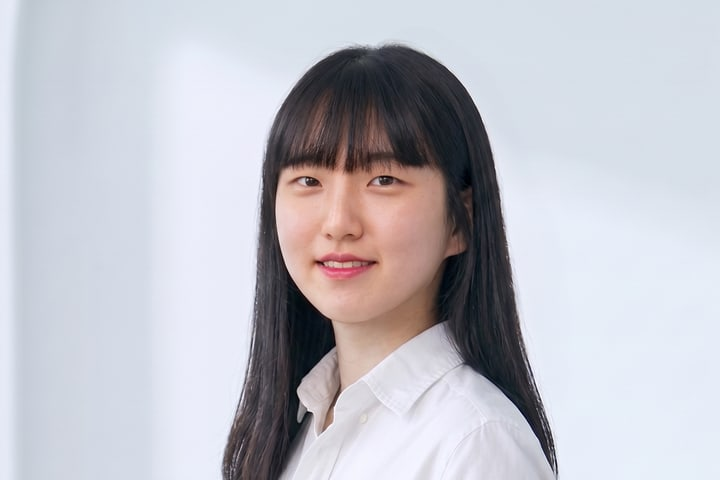
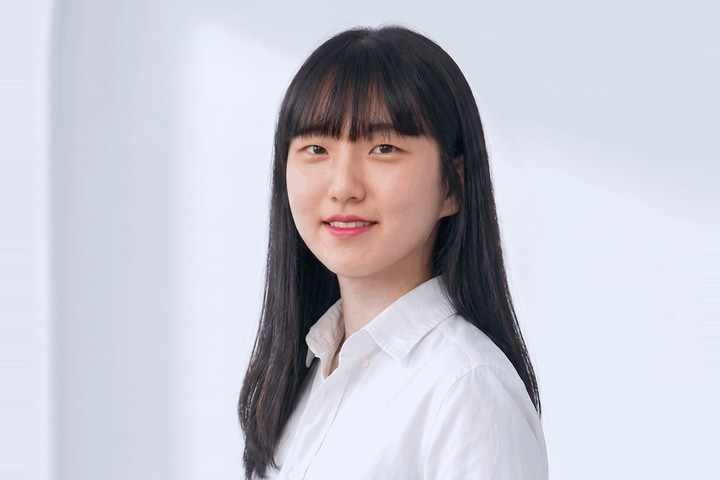
Re-import: 하나은행 sends a different speaker
오주영 is replaced by 하현승, 하나은행 디지털금융부 차장 (라이브커머스 총괄),
with a new portrait for the card and the timetable; 오주영's two photos
are no longer referenced and are dropped.

The rest of the lineup gains fuller titles and affiliations:

- 김모을 → MUSINSA 커머스마케팅 본부장
- 이주희 → 풀리오 온라인세일즈 파트장, with another new portrait
- 오니시 기요타카 → istyle (was @cosme) as the company name
- 카테고리: 메타 → 소셜 미디어, 패션 → 패션/플랫폼

The R2W session is retitled 매주 화/목요일 밤 8시, 4년째 같은 자리, and EN
and JA follow every one of these, subtitle keys included.

Claude-Session: https://claude.ai/code/session_01SChCWEoLB8VTT8diAXE1zq

Changed region(s): [[0.3056, 0.0312, 0.7944, 1.0], [0.0, 0.0, 0.0917, 1.0]]

diff --git a/summit-2026/assets/js/main.js b/summit-2026/assets/js/main.js
@@ -350,15 +350,15 @@ en: {
 "마지막 순서(15:00~15:20)에 현장에서 진행합니다. 응모하시려면 <a href=\"https://kr.linkedin.com/company/shoplive\" target=\"_blank\" rel=\"noopener\">Shoplive 링크드인</a> 팔로우가 필요하며, 당첨자는 현장에서 바로 안내해 드립니다. 자리를 비우신 경우 재추첨될 수 있습니다.": "It runs on site in the final slot (15:00~15:20). To enter, follow <a href=\"https://kr.linkedin.com/company/shoplive\" target=\"_blank\" rel=\"noopener\">Shoplive on LinkedIn</a>; winners are announced on the spot. If you are away from your seat, we may draw again.",
 "헬스·웰니스": "Health &amp; Wellness",
 "건강·웰니스 라이브, 관심을 구매로 바꾸는 방법": "Health &amp; wellness live — turning interest into purchase",
-"<b>이주희</b> 풀리오 파트장 (라이브커머스 총괄)": "<b>Juhee Lee</b> Team Lead (Head of Live Commerce), Pulio",
-"건강·웰니스 라이브, 관심을 구매로 바꾸는 방법<small>이주희 파트장 / 풀리오</small>": "Health &amp; wellness live — turning interest into purchase<small>Juhee Lee, Team Lead / Pulio</small>",
-"이주희 파트장 / 풀리오": "Juhee Lee, Team Lead / Pulio",
+"<b>이주희</b> 풀리오 온라인세일즈 파트장 (라이브커머스 총괄)": "<b>Juhee Lee</b> Team Lead, Online Sales (Head of Live Commerce), Pulio",
+"건강·웰니스 라이브, 관심을 구매로 바꾸는 방법<small>이주희 온라인세일즈 파트장 / 풀리오</small>": "Health &amp; wellness live — turning interest into purchase<small>Juhee Lee, Team Lead, Online Sales / Pulio</small>",
+"이주희 온라인세일즈 파트장 / 풀리오": "Juhee Lee, Team Lead, Online Sales / Pulio",
 "풀리오 라이브 사례를 통해 건강·웰니스 제품의 특성에 맞는 콘텐츠와 소통 전략, 고객의 관심을 구매로 전환하는 라이브커머스 운영 노하우를 소개합니다.": "Through Pulio's real live sessions, see the content and communication strategy suited to health and wellness products, and the operating know-how that turns customer interest into purchase.",
 "금융": "Finance",
 "어려운 금융, 라이브로 어떻게 고객과 소통하는가?": "Finance feels hard — how does a bank talk with its customers through live?",
-"<b>오주영</b> 하나은행 데이터마케팅팀 라이브커머스 총괄책임": "<b>Juyoung Oh</b> Live Commerce Lead, Data Marketing Team, Hana Bank",
-"어려운 금융, 라이브로 어떻게 고객과 소통하는가?<small>오주영 총괄책임 / 하나은행</small>": "Finance feels hard — how does a bank talk with its customers through live?<small>Juyoung Oh, Live Commerce Lead / Hana Bank</small>",
-"오주영 총괄책임 / 하나은행": "Juyoung Oh, Live Commerce Lead / Hana Bank",
+"<b>하현승</b> 하나은행 디지털금융부 차장 (라이브커머스 총괄)": "<b>Hyunseung Ha</b> Deputy General Manager (Live Commerce Lead), Digital Finance Department, Hana Bank",
+"어려운 금융, 라이브로 어떻게 고객과 소통하는가?<small>하현승 라이브커머스 총괄 / 하나은행</small>": "Finance feels hard — how does a bank talk with its customers through live?<small>Hyunseung Ha, Live Commerce Lead / Hana Bank</small>",
+"하현승 라이브커머스 총괄 / 하나은행": "Hyunseung Ha, Live Commerce Lead / Hana Bank",
 "금융 상품 소개부터 채용, 브랜드 커뮤니케이션까지 금융사는 라이브를 통해 고객과 어떻게 소통하는지 알아봅니다.": "From product introductions to recruiting and brand communication — see how a bank talks with its customers through live.",
 "라이브 기술이 만드는 <span>확장과 기회</span>": "Video commerce that drives <span>growth and opportunity</span>",
 "라이브커머스를 이끄는<br /><em>각 분야의 리더</em>들이 한 자리에": "<em>The leaders</em> of every corner of live commerce,<br />together in one room",
@@ -370,7 +370,7 @@ en: {
 "자주 묻는 질문": "Frequently asked questions",
 "무신사 라이브, 콘텐츠와 커머스의 경계를 넘어": "MUSINSA Live — crossing the line between content and commerce",
 "리빙 라이브의 진화, 구경을 넘어 구매로": "Living goes further — from browsing to buying",
-"팬이 고객으로 바꾸는 순간, D2C 라이브의 노하우": "Turning fans into customers — how D2C live is run",
+"매주 화/목요일 밤 8시, 4년째 같은 자리": "Every Tuesday and Thursday at 8 p.m., four years in the same slot",
 "일본 Beauty Live Commerce의 특징과 인사이트": "Inside Japan's beauty live commerce — what makes it different",
 "라이브를 바꾸는 제품 업데이트, 그리고 AI": "Product updates reshaping live, and AI",
 "숫자로 본 라이브, 지난 1년간의 성과": "Live by the numbers — the past year in results",
@@ -392,11 +392,11 @@ en: {
 "각자의 시장에서 실제 성과로 증명해온 성공 사례와 인사이트를 공유하고, 이를 바탕으로 한국의 라이브커머스 역량이 아시아 시장으로 확장되는 새로운 교두보를 함께 만들어가고자 합니다.": "Each speaker shares the cases and insights they've proven with real results in their own market — and together we'll build the gateway that carries Korea's live commerce expertise across Asia.",
 "단순히 성공 사례를 ‘듣는’ 자리가 아닙니다.<br />2026년 하반기와 2027년, 무엇을 실행하고 어떻게 성장할 것인지를 함께 고민하고, 새로운 비즈니스 기회와 전략을 구체화하는 자리입니다.": "This is not a day for simply listening to success stories.<br />It is a working session on what to execute through the second half of 2026 and into 2027 — and on turning new business opportunities into a concrete strategy.",
 "라이브커머스 시장이 어디를 향해 나아가고 있는지, Shoplive Video Commerce Summit 에서 가장 먼저 확인하실 수 있습니다.": "See where the live commerce market is heading — first, at the Shoplive Video Commerce Summit.",
-"<b>김모을</b> MUSINSA 본부장": "<b>Moeul Kim</b> Head of Division, MUSINSA",
+"<b>김모을</b> MUSINSA 커머스마케팅 본부장": "<b>Moeul Kim</b> Head of Commerce Marketing Division, MUSINSA",
 "<b>김기영</b> 샵라이브 CEO(대표)": "<b>Kiyoung Kim</b> CEO, Shoplive",
 "<b>이규원</b> 샵라이브 최고기술책임자(CTO)": "<b>Kyuwon Lee</b> CTO, Shoplive",
 "<b>김성진</b> 샵라이브 비즈니스총괄책임자(CBO)": "<b>Sungjin Kim</b> CBO, Shoplive",
-"<b>오니시 기요타카</b> @cosme Connect Experience 본부장": "<b>Kiyotaka Onishi</b> Head of Connect Experience Division, @cosme",
+"<b>오니시 기요타카</b> istyle Connect Experience 본부장": "<b>Kiyotaka Onishi</b> Head of Connect Experience Division, istyle",
 "카테고리를 이끄는 브랜드들이 어디서 기회를 찾았고, 그 기회를 어떻게 매출로 연결했는지 직접 확인하세요. 실전 사례를 통해 라이브커머스가 브랜드를 다음 단계로 이끄는 방법을 배울 수 있습니다.": "See first-hand where category-leading brands found their opportunity and how they turned it into revenue. Real cases show how live commerce takes a brand to its next stage.",
 "라이브커머스를 이제 막 시작하셨든 이미 운영 중이든, 지금 단계에 필요한 실전 전략과 카테고리별 방법론을 만나보실 수 있습니다.": "Whether you are just starting out with live commerce or already running it, you will find the hands-on strategy and category playbook that fits your current stage.",
 "국내 카테고리 리더는 물론 일본 뷰티·커머스 기업과 한자리에서 교류하며, 한국의 라이브커머스 역량을 글로벌로 넓힐 접점을 만나보세요.": "Meet Korea's category leaders alongside Japanese beauty and commerce companies, and find the contacts that carry your live commerce capability beyond Korea.",
@@ -445,7 +445,7 @@ en: {
 "주최·주관 : SHOPLIVE": "Hosted by SHOPLIVE",
 "초대 고객 대상": "By invitation only",
 "확장과 기회": "growth and opportunity",
-"패션": "Fashion",
+"패션/플랫폼": "Fashion / Platform",
 "연사 협의 중": "Speaker to be announced",
 "리빙": "Living",
 "인플루언서": "Influencer",
@@ -461,20 +461,20 @@ en: {
 "등록 · 체크인<small>11:00까지 등록을 마치고 바로 시작합니다</small>": "Registration &amp; check-in<small>Check-in closes at 11:00 and the program begins</small>",
 "Turn Video into Opportunity<small>김기영 / SHOPLIVE CEO</small>": "Turn Video into Opportunity<small>Kiyoung Kim / SHOPLIVE CEO</small>",
 "숫자로 본 라이브, 지난 1년간의 성과<small>김성진 / SHOPLIVE CBO</small>": "Live by the numbers — the past year in results<small>Sungjin Kim / SHOPLIVE CBO</small>",
-"팬이 고객으로 바꾸는 순간, D2C 라이브의 노하우<small>이유빈 대표 / 마른파이브</small>": "Turning fans into customers — how D2C live is run<small>Yubin Lee, CEO / Marn5</small>",
-"메타": "Meta",
+"매주 화/목요일 밤 8시, 4년째 같은 자리<small>이유빈 대표 / 마른파이브</small>": "Every Tuesday and Thursday at 8 p.m., four years in the same slot<small>Yubin Lee, CEO / Marn5</small>",
+"소셜 미디어": "Social Media",
 "메타가 비디오 커머스에 주목하는 이유": "Why Meta is betting on video commerce",
 "<b>최영</b> Meta Korea 전무 (이커머스 총괄)": "<b>Young Choi</b> Managing Director (Head of eCommerce), Meta Korea",
 "메타가 비디오 커머스에 주목하고 투자하는 이유를 짚어봅니다. 인스타그램을 중심으로 브랜드들이 어떤 기회를 만들어갈 수 있는지, 메타의 시각에서 이야기합니다.": "A look at why Meta is focusing on and investing in video commerce — and, from Meta's perspective, the opportunities brands can build around Instagram.",
 "메타가 비디오 커머스에 주목하는 이유<small>최영 전무 / Meta Korea</small>": "Why Meta is betting on video commerce<small>Young Choi, Managing Director / Meta Korea</small>",
-"팬이 고객으로 바꾸는 순간, D2C 라이브의 노하우<small>김시영 대표 / R2W</small>": "Turning fans into customers — how D2C live is run<small>Siyoung Kim, CEO / R2W</small>",
+"매주 화/목요일 밤 8시, 4년째 같은 자리<small>김시영 대표 / R2W</small>": "Every Tuesday and Thursday at 8 p.m., four years in the same slot<small>Siyoung Kim, CEO / R2W</small>",
 "<b>김시영</b> R2W 대표": "<b>Siyoung Kim</b> CEO, R2W",
 "리빙 라이브의 진화, 구경을 넘어 구매로<small>오늘의집</small>": "Living goes further — from browsing to buying<small>Ohouse</small>",
 "점심 · 데모부스 운영<small>식사 시간 동안 데모부스가 상시 열려 있습니다</small>": "Lunch &amp; demo booth<small>The demo booth stays open throughout lunch</small>",
 "라이브를 바꾸는 제품 업데이트, 그리고 AI<small>이규원 / SHOPLIVE CTO</small>": "Product updates reshaping live, and AI<small>Kyuwon Lee / SHOPLIVE CTO</small>",
-"일본 Beauty Live Commerce의 특징과 인사이트<small>오니시 기요타카 본부장 / @cosme</small>": "Inside Japan's beauty live commerce — what makes it different<small>Kiyotaka Onishi, Head of Connect Experience Division / @cosme</small>",
+"일본 Beauty Live Commerce의 특징과 인사이트<small>오니시 기요타카 본부장 / istyle</small>": "Inside Japan's beauty live commerce — what makes it different<small>Kiyotaka Onishi, Head of Connect Experience Division / istyle</small>",
 "쉬는 시간 · 데모부스": "Break &amp; demo booth",
-"무신사 라이브, 콘텐츠와 커머스의 경계를 넘어<small>김모을 본부장 / MUSINSA</small>": "MUSINSA Live — crossing the line between content and commerce<small>Moeul Kim, Head of Division / MUSINSA</small>",
+"무신사 라이브, 콘텐츠와 커머스의 경계를 넘어<small>김모을 커머스마케팅 본부장 / MUSINSA</small>": "MUSINSA Live — crossing the line between content and commerce<small>Moeul Kim, Head of Commerce Marketing Division / MUSINSA</small>",
 "경품 추첨 · 데모부스 체험 · 자유 네트워킹<small>같은 고민을 하는 분들과 편하게 이야기 나누실 수 있습니다</small>": "Prize draw · demo booth · open networking<small>Time to talk with people working on the same questions</small>",
 "행사 종료": "Close",
 "롯데월드타워 31층 SKY31 CONFERENCE A": "SKY31 Conference A, 31F Lotte World Tower",
@@ -499,8 +499,8 @@ en: {
 "오늘의집": "Ohouse",
 "식사 시간 동안 데모부스가 상시 열려 있습니다": "The demo booth stays open throughout lunch",
 "이규원 / SHOPLIVE CTO": "Kyuwon Lee / SHOPLIVE CTO",
-"김모을 본부장 / MUSINSA": "Moeul Kim, Head of Division / MUSINSA",
-"오니시 기요타카 본부장 / @cosme": "Kiyotaka Onishi, Head of Connect Experience Division / @cosme",
+"김모을 커머스마케팅 본부장 / MUSINSA": "Moeul Kim, Head of Commerce Marketing Division / MUSINSA",
+"오니시 기요타카 본부장 / istyle": "Kiyotaka Onishi, Head of Connect Experience Division / istyle",
 "세션 상세 확정 예정": "Session details to be confirmed",
 "같은 고민을 하는 분들과 편하게 이야기 나누실 수 있습니다": "Time to talk with people working on the same questions",
 "초청 안내": "Attendance",
@@ -530,15 +530,15 @@ ja: {
 "마지막 순서(15:00~15:20)에 현장에서 진행합니다. 응모하시려면 <a href=\"https://kr.linkedin.com/company/shoplive\" target=\"_blank\" rel=\"noopener\">Shoplive 링크드인</a> 팔로우가 필요하며, 당첨자는 현장에서 바로 안내해 드립니다. 자리를 비우신 경우 재추첨될 수 있습니다.": "最後のプログラム（15:00~15:20）に会場で実施します。ご応募には<a href=\"https://kr.linkedin.com/company/shoplive\" target=\"_blank\" rel=\"noopener\">Shoplive LinkedIn</a>のフォローが必要です。当選者は会場でその場でご案内します。席を外されている場合は再抽選となることがあります。",
 "헬스·웰니스": "ヘルス・ウェルネス",
 "건강·웰니스 라이브, 관심을 구매로 바꾸는 방법": "健康・ウェルネスライブ、関心を購買に変える方法",
-"<b>이주희</b> 풀리오 파트장 (라이브커머스 총괄)": "<b>イ・ジュヒ</b> パートリーダー（ライブコマース統括）、Pulio",
-"건강·웰니스 라이브, 관심을 구매로 바꾸는 방법<small>이주희 파트장 / 풀리오</small>": "健康・ウェルネスライブ、関心を購買に変える方法<small>イ・ジュヒ パートリーダー / Pulio</small>",
-"이주희 파트장 / 풀리오": "イ・ジュヒ パートリーダー / Pulio",
+"<b>이주희</b> 풀리오 온라인세일즈 파트장 (라이브커머스 총괄)": "<b>イ・ジュヒ</b> オンラインセールス パートリーダー（ライブコマース統括）、Pulio",
+"건강·웰니스 라이브, 관심을 구매로 바꾸는 방법<small>이주희 온라인세일즈 파트장 / 풀리오</small>": "健康・ウェルネスライブ、関心を購買に変える方法<small>イ・ジュヒ オンラインセールス パートリーダー / Pulio</small>",
+"이주희 온라인세일즈 파트장 / 풀리오": "イ・ジュヒ オンラインセールス パートリーダー / Pulio",
 "풀리오 라이브 사례를 통해 건강·웰니스 제품의 특성에 맞는 콘텐츠와 소통 전략, 고객의 관심을 구매로 전환하는 라이브커머스 운영 노하우를 소개합니다.": "Pulioの実際のライブ事例を通じて、健康・ウェルネス製品の特性に合ったコンテンツとコミュニケーション戦略、顧客の関心を購買につなげるライブコマース運営ノウハウを紹介します。",
 "금융": "金融",
 "어려운 금융, 라이브로 어떻게 고객과 소통하는가?": "難しい金融、ライブで顧客とどうコミュニケーションするか？",
-"<b>오주영</b> 하나은행 데이터마케팅팀 라이브커머스 총괄책임": "<b>オ・ジュヨン</b> データマーケティングチーム ライブコマース統括責任者、ハナ銀行",
-"어려운 금융, 라이브로 어떻게 고객과 소통하는가?<small>오주영 총괄책임 / 하나은행</small>": "難しい金融、ライブで顧客とどうコミュニケーションするか？<small>オ・ジュヨン 統括責任者 / ハナ銀行</small>",
-"오주영 총괄책임 / 하나은행": "オ・ジュヨン 統括責任者 / ハナ銀行",
+"<b>하현승</b> 하나은행 디지털금융부 차장 (라이브커머스 총괄)": "<b>ハ・ヒョンスン</b> デジタル金融部 次長（ライブコマース統括）、ハナ銀行",
+"어려운 금융, 라이브로 어떻게 고객과 소통하는가?<small>하현승 라이브커머스 총괄 / 하나은행</small>": "難しい金融、ライブで顧客とどうコミュニケーションするか？<small>ハ・ヒョンスン ライブコマース統括 / ハナ銀行</small>",
+"하현승 라이브커머스 총괄 / 하나은행": "ハ・ヒョンスン ライブコマース統括 / ハナ銀行",
 "금융 상품 소개부터 채용, 브랜드 커뮤니케이션까지 금융사는 라이브를 통해 고객과 어떻게 소통하는지 알아봅니다.": "金融商品の紹介から採用、ブランドコミュニケーションまで、金融会社がライブを通じて顧客とどのようにコミュニケーションしているかを紹介します。",
 "라이브 기술이 만드는 <span>확장과 기회</span>": "ライブ技術がひらく<span>拡張と成長の機会</span>",
 "라이브커머스를 이끄는<br /><em>각 분야의 리더</em>들이 한 자리에": "ライブコマースを牽引する<br /><em>各分野のリーダー</em>が一堂に会する",
@@ -550,7 +550,7 @@ ja: {
 "자주 묻는 질문": "よくあるご質問",
 "무신사 라이브, 콘텐츠와 커머스의 경계를 넘어": "MUSINSAライブ、コンテンツとコマースの境界を越えて",
 "리빙 라이브의 진화, 구경을 넘어 구매로": "リビングライブの進化 — 見るだけから買うへ",
-"팬이 고객으로 바꾸는 순간, D2C 라이브의 노하우": "ファンを顧客に変える瞬間 — D2Cライブのノウハウ",
+"매주 화/목요일 밤 8시, 4년째 같은 자리": "毎週火・木曜の夜8時、4年間変わらない同じ場所",
 "일본 Beauty Live Commerce의 특징과 인사이트": "日本のビューティライブコマース — その特徴とインサイト",
 "라이브를 바꾸는 제품 업데이트, 그리고 AI": "ライブを変えるプロダクトアップデート、そしてAI",
 "숫자로 본 라이브, 지난 1년간의 성과": "数字で見るライブ — この1年の成果",
@@ -572,11 +572,11 @@ ja: {
 "각자의 시장에서 실제 성과로 증명해온 성공 사례와 인사이트를 공유하고, 이를 바탕으로 한국의 라이브커머스 역량이 아시아 시장으로 확장되는 새로운 교두보를 함께 만들어가고자 합니다.": "それぞれの市場で実際の成果によって証明されてきた事例とインサイトを共有し、韓国のライブコマースの力をアジア市場へ広げる、新たな足がかりをともにつくっていきます。",
 "단순히 성공 사례를 ‘듣는’ 자리가 아닙니다.<br />2026년 하반기와 2027년, 무엇을 실행하고 어떻게 성장할 것인지를 함께 고민하고, 새로운 비즈니스 기회와 전략을 구체화하는 자리입니다.": "成功事例をただ「聞く」ための場ではありません。<br />2026年下半期から2027年にかけて、何を実行し、どう成長させるのかをともに考え、新しいビジネスの機会と戦略を形にする場です。",
 "라이브커머스 시장이 어디를 향해 나아가고 있는지, Shoplive Video Commerce Summit 에서 가장 먼저 확인하실 수 있습니다.": "ライブコマース市場がどこへ向かっているのか。Shoplive Video Commerce Summitで、いち早くご確認ください。",
-"<b>김모을</b> MUSINSA 본부장": "<b>キム・モウル</b> MUSINSA 本部長",
+"<b>김모을</b> MUSINSA 커머스마케팅 본부장": "<b>キム・モウル</b> MUSINSA コマースマーケティング本部 本部長",
 "<b>김기영</b> 샵라이브 CEO(대표)": "<b>キム・ギヨン</b> Shoplive CEO",
 "<b>이규원</b> 샵라이브 최고기술책임자(CTO)": "<b>イ・ギュウォン</b> Shoplive CTO",
 "<b>김성진</b> 샵라이브 비즈니스총괄책임자(CBO)": "<b>キム・ソンジン</b> Shoplive CBO",
-"<b>오니시 기요타카</b> @cosme Connect Experience 본부장": "<b>大西清貴</b> @cosme Connect Experience本部 本部長",
+"<b>오니시 기요타카</b> istyle Connect Experience 본부장": "<b>大西清貴</b> istyle Connect Experience本部 本部長",
 "카테고리를 이끄는 브랜드들이 어디서 기회를 찾았고, 그 기회를 어떻게 매출로 연결했는지 직접 확인하세요. 실전 사례를 통해 라이브커머스가 브랜드를 다음 단계로 이끄는 방법을 배울 수 있습니다.": "カテゴリーを牽引するブランドがどこに機会を見つけ、それをどう売上につなげたのか。実例から、ライブコマースがブランドを次の段階へ導く道筋が見えてきます。",
 "라이브커머스를 이제 막 시작하셨든 이미 운영 중이든, 지금 단계에 필요한 실전 전략과 카테고리별 방법론을 만나보실 수 있습니다.": "ライブコマースを始めたばかりの方も、すでに運営中の方も、いまの段階に必要な実践的な戦略とカテゴリー別の方法論に出会えます。",
 "국내 카테고리 리더는 물론 일본 뷰티·커머스 기업과 한자리에서 교류하며, 한국의 라이브커머스 역량을 글로벌로 넓힐 접점을 만나보세요.": "韓国のカテゴリーリーダーはもちろん、日本のビューティ・コマース企業とも同じ場で交流し、ライブコマースの力を海外へ広げる接点を見つけてください。",
@@ -626,7 +626,7 @@ ja: {
 "주최·주관 : SHOPLIVE": "主催 : SHOPLIVE",
 "초대 고객 대상": "招待制",
 "확장과 기회": "拡張と成長の機会",
-"패션": "ファッション",
+"패션/플랫폼": "ファッション／プラットフォーム",
 "연사 협의 중": "スピーカー調整中",
 "리빙": "リビング",
 "인플루언서": "インフルエンサー",
@@ -642,20 +642,20 @@ ja: {
 "등록 · 체크인<small>11:00까지 등록을 마치고 바로 시작합니다</small>": "受付・チェックイン<small>11:00までに受付を終え、そのまま開始します</small>",
 "Turn Video into Opportunity<small>김기영 / SHOPLIVE CEO</small>": "Turn Video into Opportunity<small>キム・ギヨン / SHOPLIVE CEO</small>",
 "숫자로 본 라이브, 지난 1년간의 성과<small>김성진 / SHOPLIVE CBO</small>": "数字で見るライブ — この1年の成果<small>キム・ソンジン / SHOPLIVE CBO</small>",
-"팬이 고객으로 바꾸는 순간, D2C 라이브의 노하우<small>이유빈 대표 / 마른파이브</small>": "ファンを顧客に変える瞬間 — D2Cライブのノウハウ<small>イ・ユビン代表 / Marn5</small>",
-"메타": "メタ",
+"매주 화/목요일 밤 8시, 4년째 같은 자리<small>이유빈 대표 / 마른파이브</small>": "毎週火・木曜の夜8時、4年間変わらない同じ場所<small>イ・ユビン代表 / Marn5</small>",
+"소셜 미디어": "SNS",
 "메타가 비디오 커머스에 주목하는 이유": "メタがビデオコマースに注目する理由",
 "<b>최영</b> Meta Korea 전무 (이커머스 총괄)": "<b>チェ・ヨン</b> Meta Korea 専務（Eコマース統括）",
 "메타가 비디오 커머스에 주목하고 투자하는 이유를 짚어봅니다. 인스타그램을 중심으로 브랜드들이 어떤 기회를 만들어갈 수 있는지, 메타의 시각에서 이야기합니다.": "メタがビデオコマースに注目し投資する理由を探ります。Instagramを中心に、ブランドがどのような機会をつくれるのか、メタの視点から語ります。",
 "메타가 비디오 커머스에 주목하는 이유<small>최영 전무 / Meta Korea</small>": "メタがビデオコマースに注目する理由<small>チェ・ヨン 専務 / Meta Korea</small>",
-"팬이 고객으로 바꾸는 순간, D2C 라이브의 노하우<small>김시영 대표 / R2W</small>": "ファンを顧客に変える瞬間 — D2Cライブのノウハウ<small>キム・シヨン代表 / R2W</small>",
+"매주 화/목요일 밤 8시, 4년째 같은 자리<small>김시영 대표 / R2W</small>": "毎週火・木曜の夜8時、4年間変わらない同じ場所<small>キム・シヨン代表 / R2W</small>",
 "<b>김시영</b> R2W 대표": "<b>キム・シヨン</b> R2W代表",
 "리빙 라이브의 진화, 구경을 넘어 구매로<small>오늘의집</small>": "リビングライブの進化 — 見るだけから買うへ<small>Ohouse</small>",
 "점심 · 데모부스 운영<small>식사 시간 동안 데모부스가 상시 열려 있습니다</small>": "昼食・デモブース<small>お食事の時間もデモブースは常時オープンしています</small>",
 "라이브를 바꾸는 제품 업데이트, 그리고 AI<small>이규원 / SHOPLIVE CTO</small>": "ライブを変えるプロダクトアップデート、そしてAI<small>イ・ギュウォン / SHOPLIVE CTO</small>",
-"일본 Beauty Live Commerce의 특징과 인사이트<small>오니시 기요타카 본부장 / @cosme</small>": "日本のビューティライブコマース — その特徴とインサイト<small>大西清貴 Connect Experience本部長</small>",
+"일본 Beauty Live Commerce의 특징과 인사이트<small>오니시 기요타카 본부장 / istyle</small>": "日本のビューティライブコマース — その特徴とインサイト<small>大西清貴 Connect Experience本部長 / istyle</small>",
 "쉬는 시간 · 데모부스": "休憩・デモブース",
-"무신사 라이브, 콘텐츠와 커머스의 경계를 넘어<small>김모을 본부장 / MUSINSA</small>": "MUSINSAライブ、コンテンツとコマースの境界を越えて<small>キム・モウル本部長 / MUSINSA</small>",
+"무신사 라이브, 콘텐츠와 커머스의 경계를 넘어<small>김모을 커머스마케팅 본부장 / MUSINSA</small>": "MUSINSAライブ、コンテンツとコマースの境界を越えて<small>キム・モウル コマースマーケティング本部長 / MUSINSA</small>",
 "경품 추첨 · 데모부스 체험 · 자유 네트워킹<small>같은 고민을 하는 분들과 편하게 이야기 나누실 수 있습니다</small>": "抽選会・デモブース体験・自由交流<small>同じ課題を持つ方々と気軽にお話しいただけます</small>",
 "행사 종료": "終了",
 "롯데월드타워 31층 SKY31 CONFERENCE A": "ロッテワールドタワー 31階 SKY31 CONFERENCE A",
@@ -679,8 +679,8 @@ ja: {
 "오늘의집": "Ohouse",
 "식사 시간 동안 데모부스가 상시 열려 있습니다": "お食事の時間もデモブースは常時オープンしています",
 "이규원 / SHOPLIVE CTO": "イ・ギュウォン / SHOPLIVE CTO",
-"김모을 본부장 / MUSINSA": "キム・モウル本部長 / MUSINSA",
-"오니시 기요타카 본부장 / @cosme": "大西清貴 Connect Experience本部長",
+"김모을 커머스마케팅 본부장 / MUSINSA": "キム・モウル コマースマーケティング本部長 / MUSINSA",
+"오니시 기요타카 본부장 / istyle": "大西清貴 Connect Experience本部長 / istyle",
 "세션 상세 확정 예정": "セッション詳細は確定次第",
 "같은 고민을 하는 분들과 편하게 이야기 나누실 수 있습니다": "同じ課題を持つ方々と気軽にお話しいただけます",
 "초청 안내": "ご招待について",

diff --git a/summit-2026/index.html b/summit-2026/index.html
@@ -126,7 +126,7 @@
       </article>
       <article class="spk">
         <div class="spk-media">
-          <span class="cat">메타</span>
+          <span class="cat">소셜 미디어</span>
           <img class="spk-photo" src="assets/img/speaker-choi-young.jpg" alt="최영" />
           <img class="spk-logo" src="assets/img/logo-meta.png" alt="메타 로고" />
         </div>
@@ -143,18 +143,18 @@
         </div>
         <div class="spk-body">
           <h3 class="spk-topic">일본 Beauty Live Commerce의 특징과 인사이트</h3>
-          <p class="spk-person"><b>오니시 기요타카</b> @cosme Connect Experience 본부장</p>
+          <p class="spk-person"><b>오니시 기요타카</b> istyle Connect Experience 본부장</p>
         </div>
       </article>
       <article class="spk">
         <div class="spk-media">
-          <span class="cat">패션</span>
-          <img class="spk-photo" src="assets/img/speaker-kim-moeul.jpg" alt="김모을 MUSINSA 본부장" />
+          <span class="cat">패션/플랫폼</span>
+          <img class="spk-photo" src="assets/img/speaker-kim-moeul.jpg" alt="김모을 MUSINSA 커머스마케팅 본부장" />
           <img class="spk-logo" src="assets/img/logo-musinsa.png" alt="무신사 로고" />
         </div>
         <div class="spk-body">
           <h3 class="spk-topic">무신사 라이브, 콘텐츠와 커머스의 경계를 넘어</h3>
-          <p class="spk-person"><b>김모을</b> MUSINSA 본부장</p>
+          <p class="spk-person"><b>김모을</b> MUSINSA 커머스마케팅 본부장</p>
         </div>
       </article>
       <article class="spk">
@@ -164,7 +164,7 @@
           <img class="spk-logo" src="assets/img/logo-r2w.png" alt="R2W 로고" />
         </div>
         <div class="spk-body">
-          <h3 class="spk-topic">팬이 고객으로 바꾸는 순간, D2C 라이브의 노하우</h3>
+          <h3 class="spk-topic">매주 화/목요일 밤 8시, 4년째 같은 자리</h3>
           <p class="spk-person"><b>김시영</b> R2W 대표</p>
         </div>
       </article>
@@ -187,18 +187,18 @@
         </div>
         <div class="spk-body">
           <h3 class="spk-topic">건강·웰니스 라이브, 관심을 구매로 바꾸는 방법</h3>
-          <p class="spk-person"><b>이주희</b> 풀리오 파트장 (라이브커머스 총괄)</p>
+          <p class="spk-person"><b>이주희</b> 풀리오 온라인세일즈 파트장 (라이브커머스 총괄)</p>
         </div>
       </article>
       <article class="spk">
         <div class="spk-media">
           <span class="cat">금융</span>
-          <img class="spk-photo" src="assets/img/speaker-oh-juyoung.jpg" alt="오주영" />
+          <img class="spk-photo" src="assets/img/speaker-ha-hyunseung.jpg" alt="하현승" />
           <img class="spk-logo" src="assets/img/logo-keb-hana.png" alt="하나은행 로고" />
         </div>
         <div class="spk-body">
           <h3 class="spk-topic">어려운 금융, 라이브로 어떻게 고객과 소통하는가?</h3>
-          <p class="spk-person"><b>오주영</b> 하나은행 데이터마케팅팀 라이브커머스 총괄책임</p>
+          <p class="spk-person"><b>하현승</b> 하나은행 디지털금융부 차장 (라이브커머스 총괄)</p>
         </div>
       </article>
       <article class="spk">
@@ -311,7 +311,7 @@
           <summary>
             <span class="t">13:00~13:30</span>
             <span class="tag">Beauty · Japan</span>
-            <span class="ttl">일본 Beauty Live Commerce의 특징과 인사이트<small>오니시 기요타카 본부장 / @cosme</small></span>
+            <span class="ttl">일본 Beauty Live Commerce의 특징과 인사이트<small>오니시 기요타카 본부장 / istyle</small></span>
             <span class="tt-thumb" aria-hidden="true"><img class="tt-photo" src="assets/img/timetable-onishi-kiyotaka.png" alt="" /></span>
             <svg class="chev" viewBox="0 0 24 24" fill="none" stroke="currentColor" stroke-width="2" stroke-linecap="round"><path d="M6 9l6 6 6-6"/></svg>
           </summary>
@@ -322,7 +322,7 @@
           <summary>
             <span class="t">13:30~13:50</span>
             <span class="tag">Health · Wellness</span>
-            <span class="ttl">건강·웰니스 라이브, 관심을 구매로 바꾸는 방법<small>이주희 파트장 / 풀리오</small></span>
+            <span class="ttl">건강·웰니스 라이브, 관심을 구매로 바꾸는 방법<small>이주희 온라인세일즈 파트장 / 풀리오</small></span>
             <span class="tt-thumb" aria-hidden="true"><img class="tt-photo" src="assets/img/timetable-lee-juhee.jpg" alt="" /></span>
             <svg class="chev" viewBox="0 0 24 24" fill="none" stroke="currentColor" stroke-width="2" stroke-linecap="round"><path d="M6 9l6 6 6-6"/></svg>
           </summary>
@@ -342,7 +342,7 @@
           <summary>
             <span class="t">14:00~14:20</span>
             <span class="tag">D2C</span>
-            <span class="ttl">팬이 고객으로 바꾸는 순간, D2C 라이브의 노하우<small>김시영 대표 / R2W</small></span>
+            <span class="ttl">매주 화/목요일 밤 8시, 4년째 같은 자리<small>김시영 대표 / R2W</small></span>
             <span class="tt-thumb" aria-hidden="true"><img class="tt-photo" src="assets/img/timetable-kim-siyoung.jpg" alt="" /></span>
             <svg class="chev" viewBox="0 0 24 24" fill="none" stroke="currentColor" stroke-width="2" stroke-linecap="round"><path d="M6 9l6 6 6-6"/></svg>
           </summary>
@@ -353,8 +353,8 @@
           <summary>
             <span class="t">14:20~14:40</span>
             <span class="tag">Finance</span>
-            <span class="ttl">어려운 금융, 라이브로 어떻게 고객과 소통하는가?<small>오주영 총괄책임 / 하나은행</small></span>
-            <span class="tt-thumb" aria-hidden="true"><img class="tt-photo" src="assets/img/timetable-oh-juyoung.jpg" alt="" /></span>
+            <span class="ttl">어려운 금융, 라이브로 어떻게 고객과 소통하는가?<small>하현승 라이브커머스 총괄 / 하나은행</small></span>
+            <span class="tt-thumb" aria-hidden="true"><img class="tt-photo" src="assets/img/timetable-ha-hyunseung.jpg" alt="" /></span>
             <svg class="chev" viewBox="0 0 24 24" fill="none" stroke="currentColor" stroke-width="2" stroke-linecap="round"><path d="M6 9l6 6 6-6"/></svg>
           </summary>
           <p class="detail">금융 상품 소개부터 채용, 브랜드 커뮤니케이션까지 금융사는 라이브를 통해 고객과 어떻게 소통하는지 알아봅니다.</p>
@@ -364,7 +364,7 @@
           <summary>
             <span class="t">14:40~15:00</span>
             <span class="tag">Fashion</span>
-            <span class="ttl">무신사 라이브, 콘텐츠와 커머스의 경계를 넘어<small>김모을 본부장 / MUSINSA</small></span>
+            <span class="ttl">무신사 라이브, 콘텐츠와 커머스의 경계를 넘어<small>김모을 커머스마케팅 본부장 / MUSINSA</small></span>
             <span class="tt-thumb" aria-hidden="true"><img class="tt-photo" src="assets/img/timetable-kim-moeul.jpg" alt="" /></span>
             <svg class="chev" viewBox="0 0 24 24" fill="none" stroke="currentColor" stroke-width="2" stroke-linecap="round"><path d="M6 9l6 6 6-6"/></svg>
           </summary>

diff --git a/tools/import_artifact.py b/tools/import_artifact.py
@@ -61,8 +61,8 @@ ASSET_NAMES = {
     "754d6b9a": "img/speaker-choi-young.jpg",
     "7daea379": "img/speaker-choi-young.jpg",
     "694c383d": "img/speaker-kim-siyoung.jpg",
-    "f9576584": "img/speaker-lee-juhee.jpg",
-    "3a1fc87d": "img/speaker-oh-juyoung.jpg",
+    "30547df1": "img/speaker-lee-juhee.jpg",
+    "b5218b15": "img/speaker-ha-hyunseung.jpg",
     "6be1c3ef": "img/speaker-lee-gyuwon.jpg",
     "ec459dd8": "img/speaker-onishi-kiyotaka.png",
     # timetable thumbnails
@@ -74,7 +74,7 @@ ASSET_NAMES = {
     "7bec7693": "img/timetable-choi-young.jpg",
     "f73567d4": "img/timetable-lee-gyuwon.jpg",
     "49b89d03": "img/timetable-lee-juhee.jpg",
-    "a08a9787": "img/timetable-oh-juyoung.jpg",
+    "ee686656": "img/timetable-ha-hyunseung.jpg",
     "bf226bc9": "img/timetable-kim-siyoung.jpg",
     # perks
     "9ef7a946": "img/perk-demo-booth.webp",
